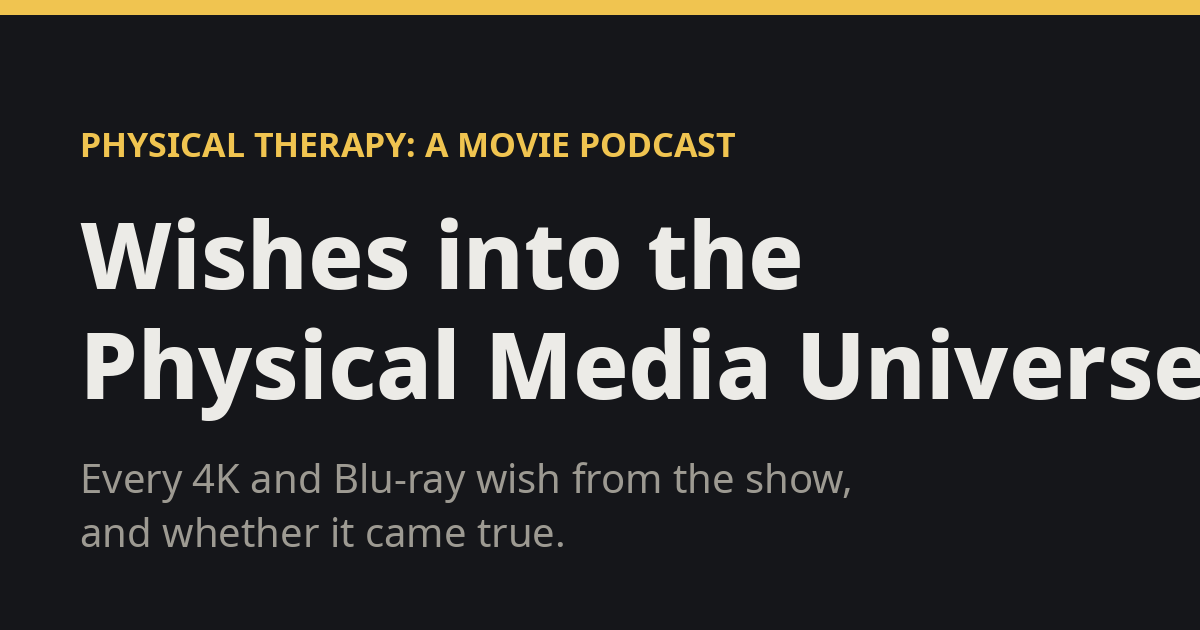
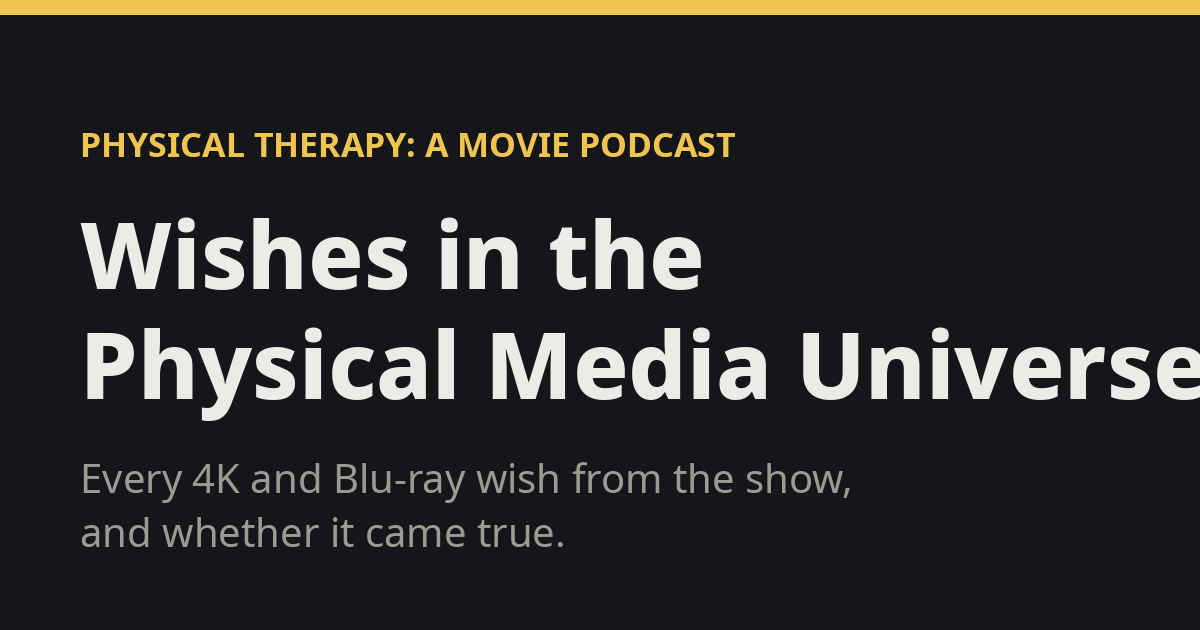
Retitle: Wishes in the Physical Media Universe

Changed region(s): [[0.4317, 0.3317, 0.6783, 0.4825]]

diff --git a/docs/index.html b/docs/index.html
@@ -3,17 +3,17 @@
 <head>
 <meta charset="utf-8">
 <meta name="viewport" content="width=device-width, initial-scale=1">
-<title>Wishes into the Physical Media Universe · Physical Therapy: A Movie Podcast wish list</title>
+<title>Wishes in the Physical Media Universe · Physical Therapy: A Movie Podcast wish list</title>
 <meta name="description" content="Every 4K and Blu-ray release wished for on Physical Therapy: A Movie Podcast, the physical media podcast hosted by Kurt and Sam: 230 wishes, 35 granted so far, with links to each release.">
 <link rel="canonical" href="https://tjsander.github.io/ptmoviepod-wishes/">
 <meta property="og:type" content="website">
-<meta property="og:site_name" content="Wishes into the Physical Media Universe">
-<meta property="og:title" content="Wishes into the Physical Media Universe · Physical Therapy: A Movie Podcast">
+<meta property="og:site_name" content="Wishes in the Physical Media Universe">
+<meta property="og:title" content="Wishes in the Physical Media Universe · Physical Therapy: A Movie Podcast">
 <meta property="og:description" content="Every 4K and Blu-ray release wished for on Physical Therapy: A Movie Podcast, the physical media podcast hosted by Kurt and Sam: 230 wishes, 35 granted so far, with links to each release.">
 <meta property="og:url" content="https://tjsander.github.io/ptmoviepod-wishes/">
 <meta property="og:image" content="https://tjsander.github.io/ptmoviepod-wishes/card.png">
 <meta name="twitter:card" content="summary_large_image">
-<script type="application/ld+json">{"@context": "https://schema.org", "@graph": [{"@type": "WebSite", "@id": "https://tjsander.github.io/ptmoviepod-wishes/#site", "url": "https://tjsander.github.io/ptmoviepod-wishes/", "name": "Wishes into the Physical Media Universe", "description": "Every 4K and Blu-ray release wished for on Physical Therapy: A Movie Podcast, the physical media podcast hosted by Kurt and Sam: 230 wishes, 35 granted so far, with links to each release.", "inLanguage": "en", "author": {"@type": "Person", "name": "Travis J. Sanders", "url": "https://github.com/tjsander"}, "about": {"@id": "https://tjsander.github.io/ptmoviepod-wishes/#podcast"}}, {"@type": "PodcastSeries", "@id": "https://tjsander.github.io/ptmoviepod-wishes/#podcast", "name": "Physical Therapy: A Movie Podcast", "alternateName": ["PT Movie Pod", "ptmoviepod"], "description": "A movie podcast dedicated to physical media, film preservation and why owning movies matters.", "url": "https://linktr.ee/ptmoviepod", "webFeed": "https://feed.podbean.com/ptmoviepod/feed.xml", "genre": ["Film", "Physical media", "Blu-ray", "4K UHD"], "sameAs": ["https://podcasts.apple.com/us/podcast/physical-therapy-a-movie-podcast/id1736079773", "https://www.youtube.com/@ptmoviepod", "https://boxd.it/lR6On"]}]}</script>
+<script type="application/ld+json">{"@context": "https://schema.org", "@graph": [{"@type": "WebSite", "@id": "https://tjsander.github.io/ptmoviepod-wishes/#site", "url": "https://tjsander.github.io/ptmoviepod-wishes/", "name": "Wishes in the Physical Media Universe", "description": "Every 4K and Blu-ray release wished for on Physical Therapy: A Movie Podcast, the physical media podcast hosted by Kurt and Sam: 230 wishes, 35 granted so far, with links to each release.", "inLanguage": "en", "author": {"@type": "Person", "name": "Travis J. Sanders", "url": "https://github.com/tjsander"}, "about": {"@id": "https://tjsander.github.io/ptmoviepod-wishes/#podcast"}}, {"@type": "PodcastSeries", "@id": "https://tjsander.github.io/ptmoviepod-wishes/#podcast", "name": "Physical Therapy: A Movie Podcast", "alternateName": ["PT Movie Pod", "ptmoviepod"], "description": "A movie podcast dedicated to physical media, film preservation and why owning movies matters.", "url": "https://linktr.ee/ptmoviepod", "webFeed": "https://feed.podbean.com/ptmoviepod/feed.xml", "genre": ["Film", "Physical media", "Blu-ray", "4K UHD"], "sameAs": ["https://podcasts.apple.com/us/podcast/physical-therapy-a-movie-podcast/id1736079773", "https://www.youtube.com/@ptmoviepod", "https://boxd.it/lR6On"]}]}</script>
 <style>
 :root {
   --bg: #f4f1ea; --card: #fffdf8; --ink: #1c1b19; --mute: #6b665c; --line: #ddd6c8; --accent: #9a3b1f; --head: #ebe5d8;
@@ -111,8 +111,8 @@ footer p { margin: 0 0 8px; }
 <body>
 <header class="hero">
 <div class="hero-in">
-  <h1>Wishes into the Physical Media Universe</h1>
-  <p>Every disc wished for at the end of <a href="https://linktr.ee/ptmoviepod" target="_blank" rel="noopener"><em>Physical Therapy: A Movie Podcast</em></a>, the show about physical media, film preservation and why owning movies matters, hosted by Kurt and Sam, and whether each wish came true. Release status checked <span id="checked">13 Oct 2026</span>.</p>
+  <h1>Wishes in the Physical Media Universe</h1>
+  <p>Every disc wished for at the end of <a href="https://linktr.ee/ptmoviepod" target="_blank" rel="noopener"><em>Physical Therapy: A Movie Podcast</em></a>, a show about physical media, film preservation and why owning movies matters, hosted by Kurt and Sam, and whether each wish came true. Release status checked <span id="checked">13 Oct 2026</span>.</p>
 </div>
 </header>
 <main>

diff --git a/tools/build_site.py b/tools/build_site.py
@@ -64,7 +64,7 @@ def mini_leaderboard():
     return "\n".join(out)
 
 
-title = next((line[2:].strip() for line in md if line.startswith("# ")), "Wishes into the Physical Media Universe")
+title = next((line[2:].strip() for line in md if line.startswith("# ")), "Wishes in the Physical Media Universe")
 payload = json.dumps(data, ensure_ascii=False, separators=(",", ":")).replace("</", "<\\/")
 
 PAGE = r"""<!doctype html>
@@ -181,7 +181,7 @@ footer p { margin: 0 0 8px; }
 <header class="hero">
 <div class="hero-in">
   <h1>__TITLE__</h1>
-  <p>Every disc wished for at the end of <a href="https://linktr.ee/ptmoviepod" target="_blank" rel="noopener"><em>Physical Therapy: A Movie Podcast</em></a>, the show about physical media, film preservation and why owning movies matters, hosted by Kurt and Sam, and whether each wish came true. Release status checked <span id="checked">__CHECKED__</span>.</p>
+  <p>Every disc wished for at the end of <a href="https://linktr.ee/ptmoviepod" target="_blank" rel="noopener"><em>Physical Therapy: A Movie Podcast</em></a>, a show about physical media, film preservation and why owning movies matters, hosted by Kurt and Sam, and whether each wish came true. Release status checked <span id="checked">__CHECKED__</span>.</p>
 </div>
 </header>
 <main>

diff --git a/README.md b/README.md
@@ -1,4 +1,4 @@
-# Wishes into the Physical Media Universe
+# Wishes in the Physical Media Universe
 
 Every disc wished for at the end of [Physical Therapy: A Movie Podcast](https://linktr.ee/ptmoviepod), and whether the wish came true.
 

diff --git a/wishes.md b/wishes.md
@@ -1,4 +1,4 @@
-# Wishes into the Physical Media Universe
+# Wishes in the Physical Media Universe
 
 ## Physical Therapy: A Movie Podcast — physical media wishes
 
